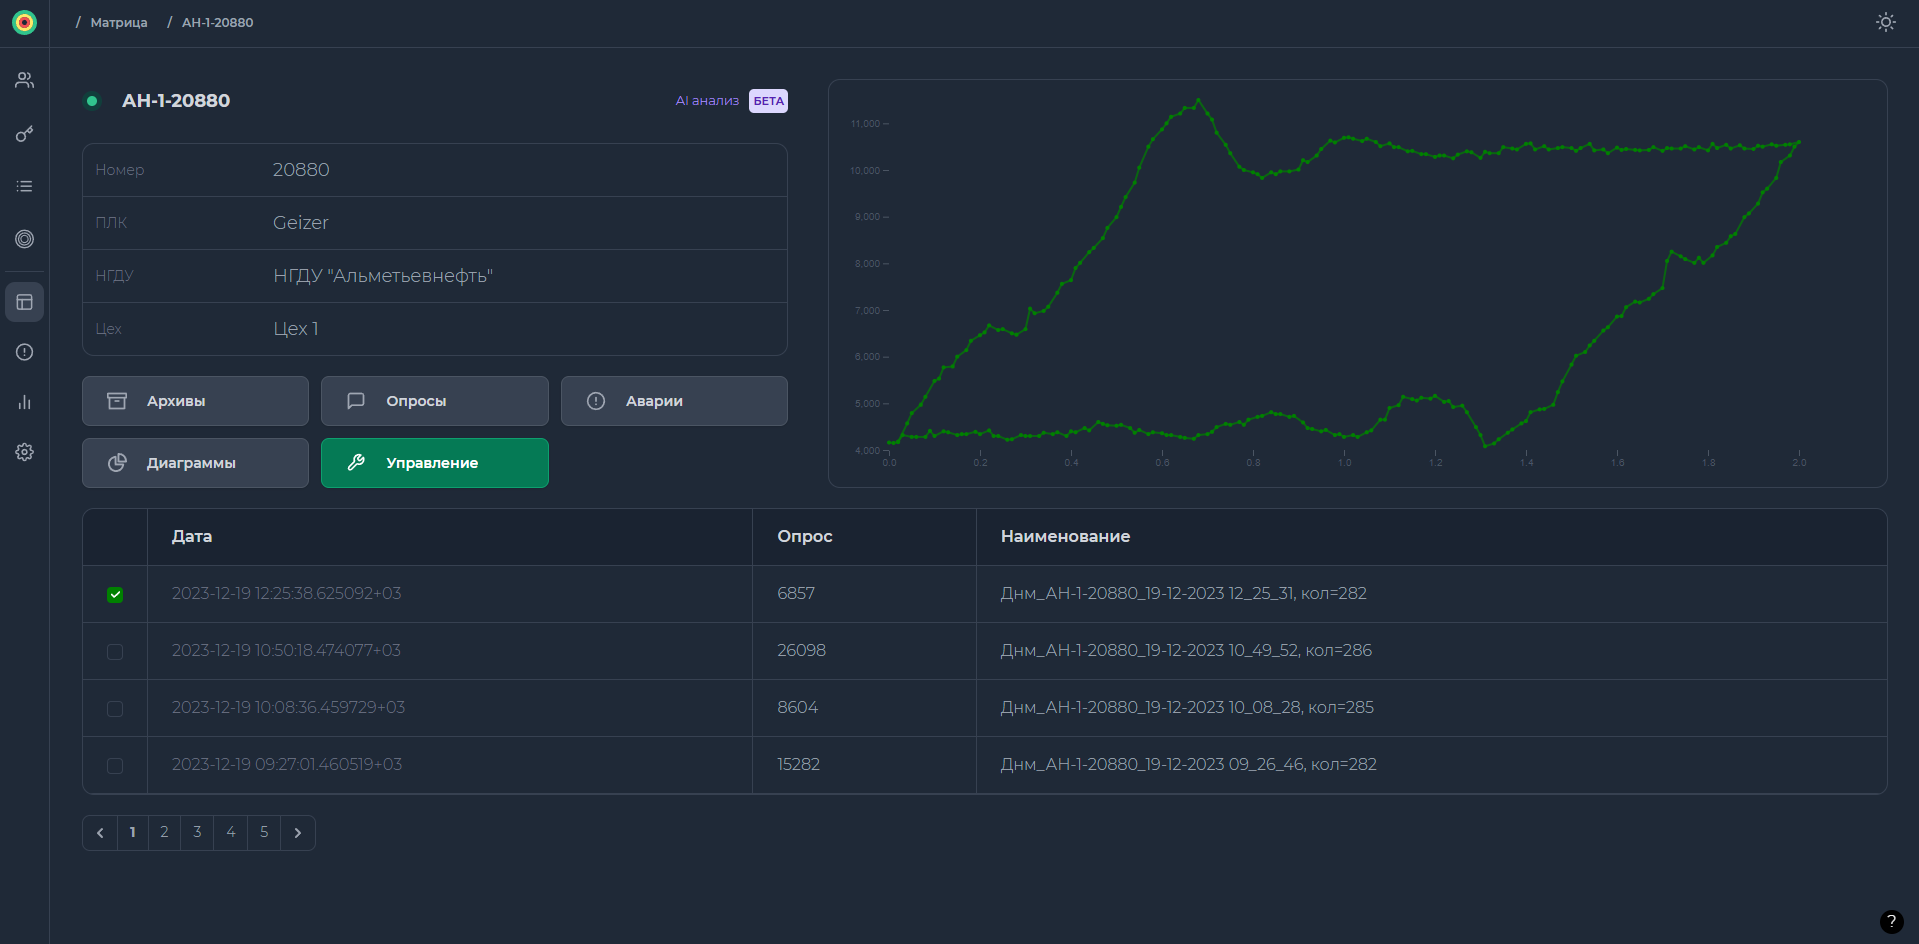
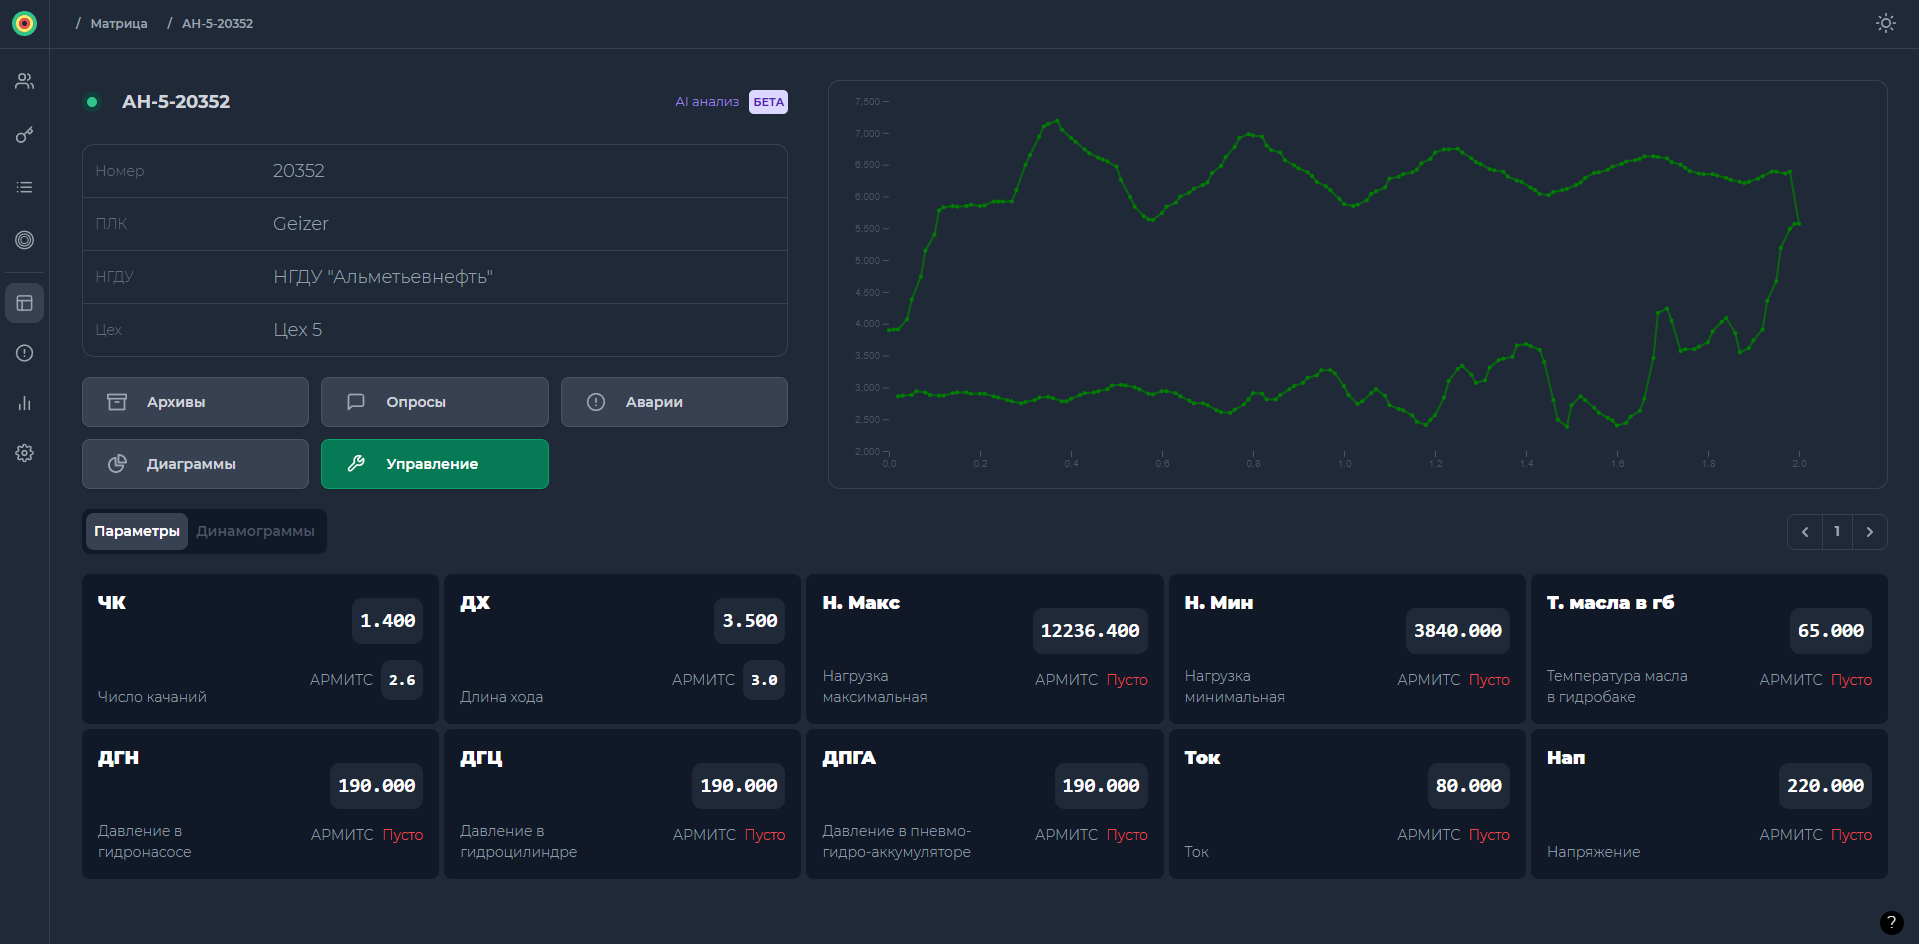
upd: readme

diff --git a/README.md b/README.md
@@ -20,6 +20,10 @@
   Просмотр всех данных по доступным вам скважинам, в том числе: аварии, опросы,
   часовые архивы и.т.д. Для удобства просотра есть режимы `карточек` и `таблицы`, с возможностью экспорта в Excel
 
+- [x] **Управление**
+
+  Возможность удалённо вносить изменения в работу скважины по любым доступным для записи параметрам.
+
 - [x] **Ролевое управление доступом**
 
   Для различных пользователей существуют разные уровни управления доступом. Например,
@@ -61,20 +65,31 @@
 
 <br>
 
+![App Screenshot](public/images/readme_scht_5.png)
+
+**Управление скважиной**
+
+- **В правой верхней части:** Список из параметров скважины.
+  Каждый параметр отображает данные из двух источников: Контроллера и базы данных АРМИТС.
+- **В нижней части:** Список заявок пользователя. Каждая заявка отображает
+  *(1) комментарий* и *(2) статус*. Если заявка ещё не была принята или отклонена
+  пользователь может **удалить** её.
+  <br>
+  <br>
+  (1) Изменение, которое должно быть внесено в работу скважины
+  <br>
+  (2) Состояние заявки. В зависимости от действий оператора заявка может быть принята или отклонена
+
+<br>
+
 ![App Screenshot](public/images/readme_scht_4.png)
 
-**Вывод отчёта Динамографа**
+**Вывод отчёта Динамографа** - 20.01.2024
 
 - **В правой нижней части:** Отчёт, сформированный моделью машинного обучения
 [<b>Динамограф</b>](https://github.com/YaraZan/dinamograph-api). Анализ осуществляется над каждой выбранной
 динамограммой. Для достижения максимальной эффективности рекоммендуется выбрать несколько записей
 
-## Стек технологий
-**Client:** Vue, Vite, TailwindCSS
-
-**Server:** Laravel
-
-**Database:** PostgreSQL
 
 ## Производство
 
